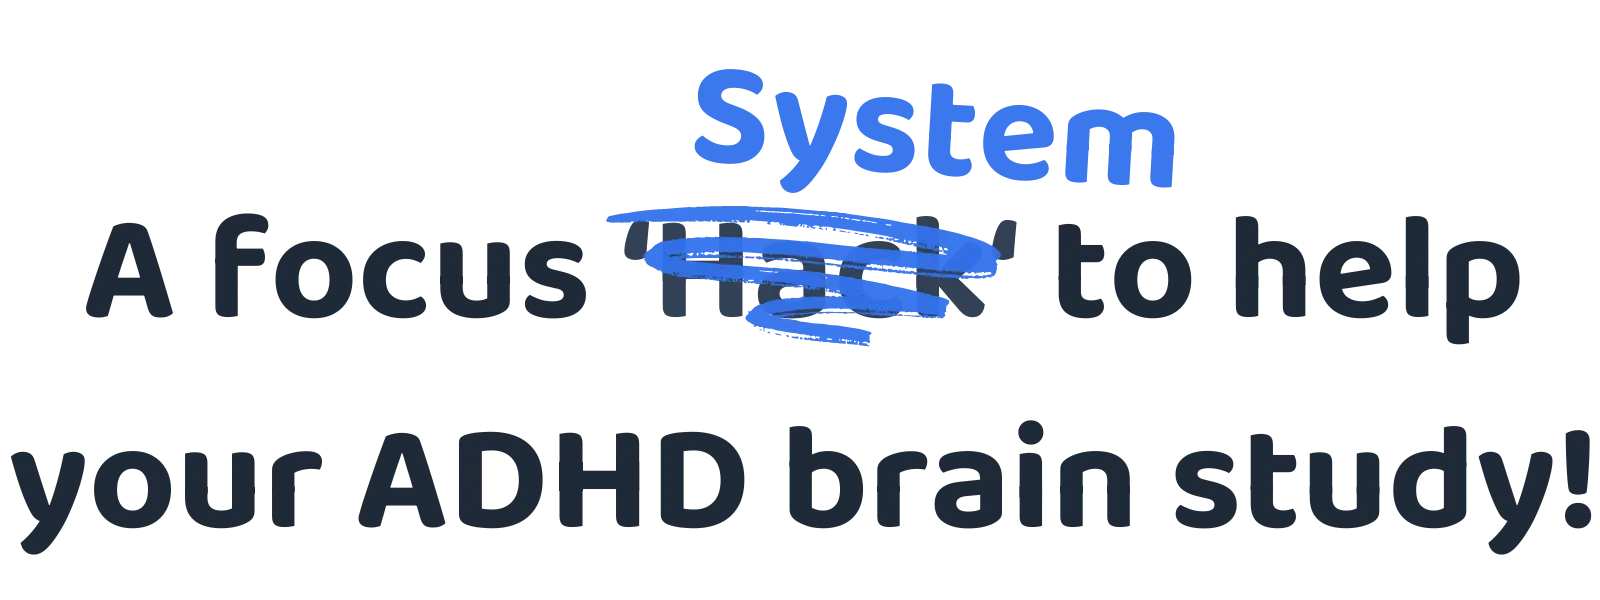
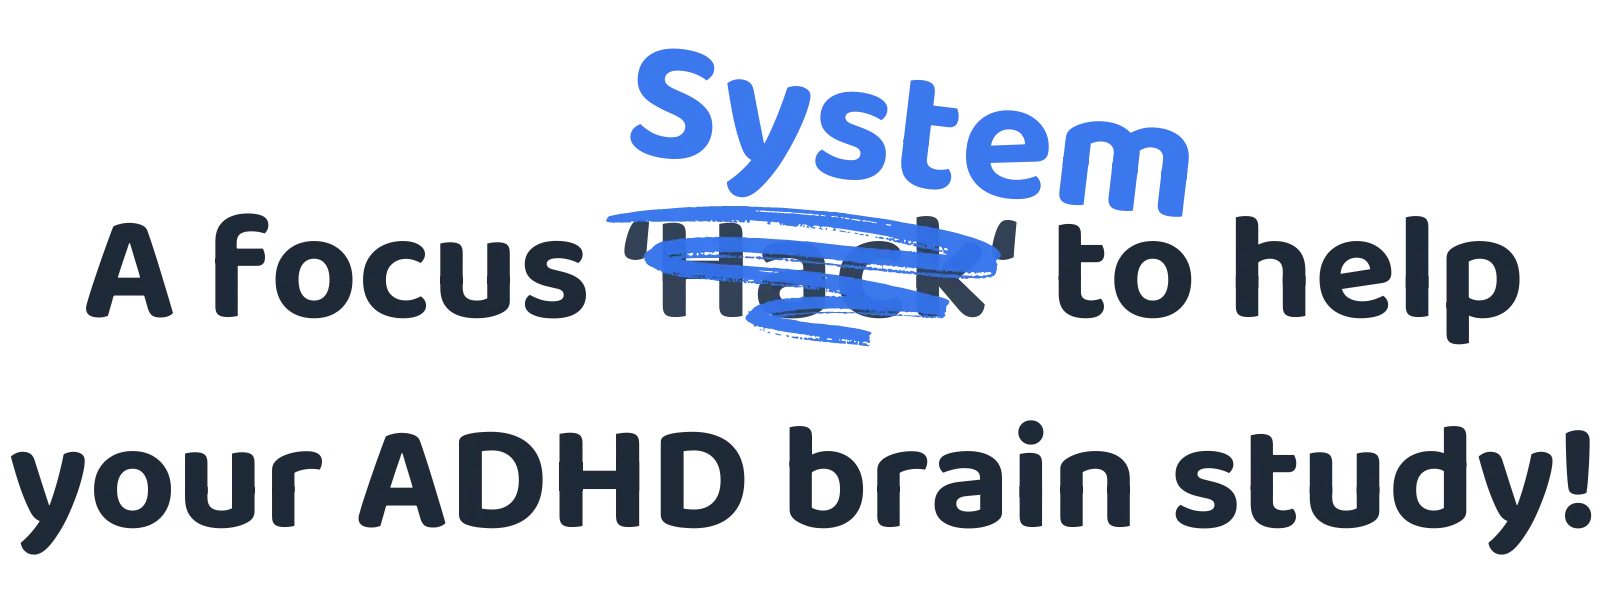
style(image)

Changed region(s): [[0.375, 0.06, 0.75, 0.36]]

diff --git a/components/HeroSection.js b/components/HeroSection.js
@@ -12,7 +12,7 @@ const HeroSection = () => {
   };
 
   return (
-    <section id="hero" className="bg-blue-50 hero-section pt-24 sm:pt-32">
+    <section id="hero" className="bg-blue-50 hero-section pt-20 sm:pt-24">
       <div className="mx-auto max-w-screen-xl px-4 py-8 text-center lg:px-12 lg:py-16">
         <div className="px-0 md:px-80">
           <Image
